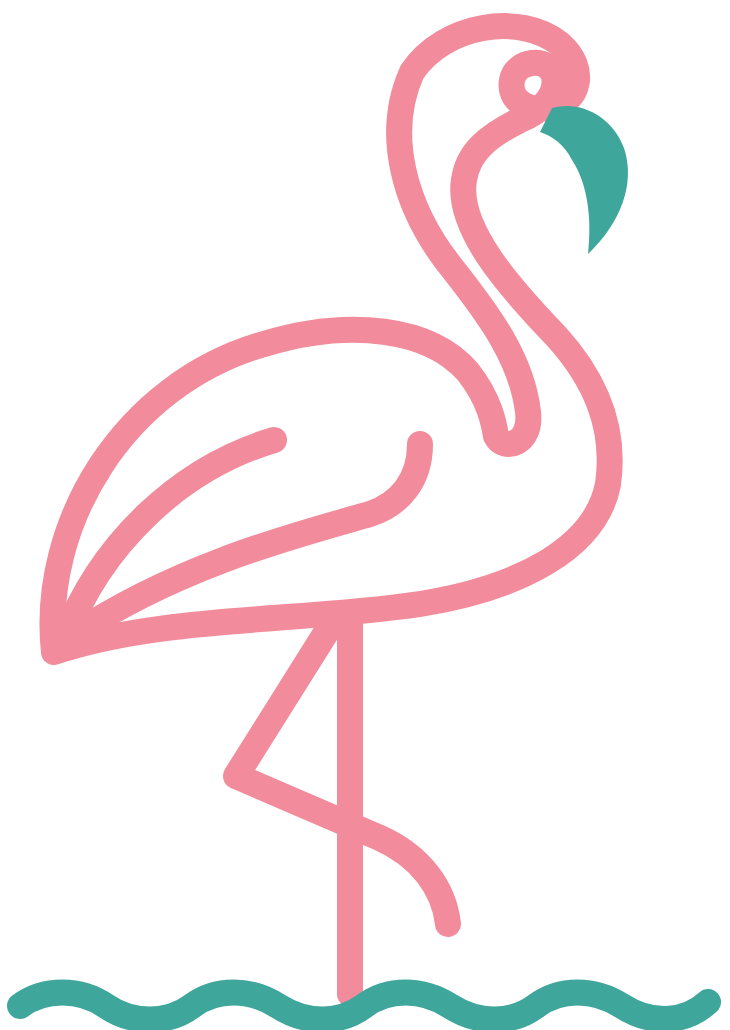
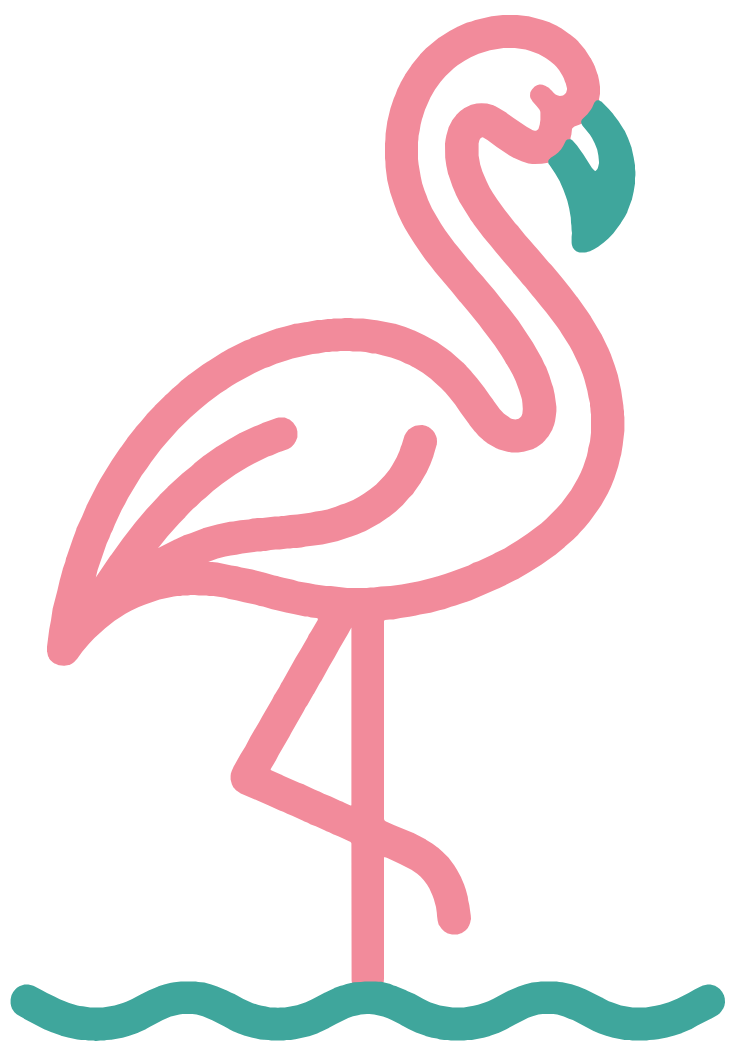
Flamant detoure sur le modele : cou, tete et bec identiques au dessin fourni

diff --git a/index.html b/index.html
@@ -12,14 +12,14 @@
 <meta property="og:type" content="website">
 <meta property="og:url" content="https://maisonflamingo.fr/">
 <meta property="og:site_name" content="Maison Flamingo">
-<meta property="og:image" content="https://maisonflamingo.fr/partage.png?v=5">
+<meta property="og:image" content="https://maisonflamingo.fr/partage.png?v=6">
 <meta property="og:image:width" content="1200">
 <meta property="og:image:height" content="630">
 <meta property="og:image:alt" content="Maison Flamingo, coucher de soleil sur la piscine : Plongez, on s'occupe du reste">
 <meta name="twitter:card" content="summary_large_image">
 <link rel="canonical" href="https://maisonflamingo.fr/">
-<link rel="icon" href="favicon.png?v=4" type="image/png">
-<link rel="apple-touch-icon" href="favicon.png?v=4">
+<link rel="icon" href="favicon.png?v=5" type="image/png">
+<link rel="apple-touch-icon" href="favicon.png?v=5">
 <link rel="preconnect" href="https://fonts.googleapis.com">
 <link rel="preconnect" href="https://fonts.gstatic.com" crossorigin>
 <link href="https://fonts.googleapis.com/css2?family=Josefin+Sans:wght@200;300;400;600;700&family=Jost:ital,wght@0,300;0,400;0,500;0,600;1,400&display=swap" rel="stylesheet">
@@ -50,7 +50,7 @@
 <header class="nav" id="nav">
   <div class="wrap nav-inner">
     <a href="#haut" class="logo" aria-label="Maison Flamingo, retour en haut">
-      <img class="logo-flamant" src="flamant.png?v=4" alt="" width="30" height="45">
+      <img class="logo-flamant" src="flamant.png?v=5" alt="" width="30" height="45">
       <span class="logo-mots"><span class="logo-maison">Maison</span><span class="logo-flamingo">Flamingo</span></span>
     </a>
     <nav class="nav-liens" aria-label="Navigation principale">
@@ -91,7 +91,7 @@
 
       <figure class="carte-passage" aria-label="Exemple de carte laissée après un passage">
         <div class="carte-entete">
-          <img src="flamant.png?v=4" alt="" width="21" height="30">
+          <img src="flamant.png?v=5" alt="" width="21" height="30">
           <span>Maison Flamingo</span>
         </div>
         <p class="carte-ligne">Votre Flamingo est passé jeudi 10 juin, à 10 h 40.</p>
@@ -407,7 +407,7 @@
   <div class="bande-sunset" aria-hidden="true"></div>
   <div class="wrap pied-grille">
     <div class="logo logo-pied">
-      <img class="logo-flamant" src="flamant.png?v=4" alt="" width="30" height="45">
+      <img class="logo-flamant" src="flamant.png?v=5" alt="" width="30" height="45">
       <span class="logo-mots"><span class="logo-maison">Maison</span><span class="logo-flamingo">Flamingo</span></span>
     </div>
     <div class="pied-liens">

diff --git a/app/espace.html b/app/espace.html
@@ -10,8 +10,8 @@
 <meta name="apple-mobile-web-app-title" content="Ma piscine">
 <title>Mon espace · Maison Flamingo</title>
 <link rel="manifest" href="espace.webmanifest">
-<link rel="icon" href="icone.png?v=4" type="image/png">
-<link rel="apple-touch-icon" href="icone.png?v=4">
+<link rel="icon" href="icone.png?v=5" type="image/png">
+<link rel="apple-touch-icon" href="icone.png?v=5">
 <link rel="preconnect" href="https://fonts.googleapis.com">
 <link rel="preconnect" href="https://fonts.gstatic.com" crossorigin>
 <link href="https://fonts.googleapis.com/css2?family=Josefin+Sans:wght@300;400;600;700&family=Jost:wght@300;400;500;600&display=swap" rel="stylesheet">
@@ -22,7 +22,7 @@
 <header class="entete">
   <div class="bande"></div>
   <div class="entete-dedans">
-    <img src="flamant.png?v=4" alt="" width="36" height="51">
+    <img src="flamant.png?v=5" alt="" width="36" height="51">
     <div class="mots"><span class="petit">Maison</span><span class="grand">Flamingo</span></div>
   </div>
 </header>

diff --git a/app/index.html b/app/index.html
@@ -9,14 +9,14 @@
 <meta name="apple-mobile-web-app-title" content="Flamingo">
 <title>Maison Flamingo · Terrain</title>
 <link rel="manifest" href="manifest.webmanifest">
-<link rel="icon" href="icone.png?v=4" type="image/png">
-<link rel="apple-touch-icon" href="icone.png?v=4">
+<link rel="icon" href="icone.png?v=5" type="image/png">
+<link rel="apple-touch-icon" href="icone.png?v=5">
 <link rel="stylesheet" href="vendor/leaflet/leaflet.css?v=1.9.4">
 <link rel="stylesheet" href="app.css?v=6">
 </head>
 <body>
 <header class="barre">
-  <a class="marque" href="#/"><img src="flamant.png?v=4" alt="" width="21" height="30"><span>Maison <strong>Flamingo</strong></span></a>
+  <a class="marque" href="#/"><img src="flamant.png?v=5" alt="" width="21" height="30"><span>Maison <strong>Flamingo</strong></span></a>
   <span class="etat"><span id="attente" class="attente" hidden></span><span id="qui"></span></span>
 </header>
 <nav id="nav" class="menu" hidden></nav>

diff --git a/app/sw.js b/app/sw.js
@@ -1,8 +1,8 @@
 // L'outil s'ouvre même sans réseau au fond d'un jardin : la coquille est gardée en cache.
 // Les données, elles, ne passent jamais par ce cache : elles vont toujours au serveur.
-const VERSION = 'flamingo-terrain-10';
+const VERSION = 'flamingo-terrain-11';
 const COQUILLE = ['./', 'index.html', 'app.css?v=6', 'commun.js?v=2', 'formulaires.js?v=3', 'app.js?v=6', 'admin.js?v=6', 'tournee.js?v=2', 'carnet.js?v=2',
-  'vendor/leaflet/leaflet.js?v=1.9.4', 'vendor/leaflet/leaflet.css?v=1.9.4', 'vendor/qrcode.js?v=1.4.4', 'icone.png?v=4', 'flamant.png?v=4', 'manifest.webmanifest'];
+  'vendor/leaflet/leaflet.js?v=1.9.4', 'vendor/leaflet/leaflet.css?v=1.9.4', 'vendor/qrcode.js?v=1.4.4', 'icone.png?v=5', 'flamant.png?v=5', 'manifest.webmanifest'];
 
 self.addEventListener('install', (e) => {
   e.waitUntil(caches.open(VERSION).then((c) => c.addAll(COQUILLE)).then(() => self.skipWaiting()));

diff --git a/app/rapport.html b/app/rapport.html
@@ -7,7 +7,7 @@
 <meta name="referrer" content="no-referrer">
 <meta name="theme-color" content="#2A1D3D">
 <title>Votre rapport · Maison Flamingo</title>
-<link rel="icon" href="icone.png?v=4" type="image/png">
+<link rel="icon" href="icone.png?v=5" type="image/png">
 <link rel="preconnect" href="https://fonts.googleapis.com">
 <link rel="preconnect" href="https://fonts.gstatic.com" crossorigin>
 <link href="https://fonts.googleapis.com/css2?family=Josefin+Sans:wght@300;400;600;700&family=Jost:wght@300;400;500;600&display=swap" rel="stylesheet">
@@ -17,7 +17,7 @@
 <header class="entete">
   <div class="bande"></div>
   <div class="entete-dedans">
-    <img src="flamant.png?v=4" alt="" width="36" height="51">
+    <img src="flamant.png?v=5" alt="" width="36" height="51">
     <span class="mots"><span class="petit">Maison</span><span class="grand">Flamingo</span></span>
   </div>
 </header>

diff --git a/mentions-legales.html b/mentions-legales.html
@@ -5,7 +5,7 @@
 <meta name="viewport" content="width=device-width, initial-scale=1">
 <title>Mentions légales · Maison Flamingo</title>
 <meta name="robots" content="noindex">
-<link rel="icon" href="favicon.png?v=4" type="image/png">
+<link rel="icon" href="favicon.png?v=5" type="image/png">
 <link rel="preconnect" href="https://fonts.googleapis.com">
 <link rel="preconnect" href="https://fonts.gstatic.com" crossorigin>
 <link href="https://fonts.googleapis.com/css2?family=Josefin+Sans:wght@200;300;400;600&family=Jost:wght@300;400;500&display=swap" rel="stylesheet">
